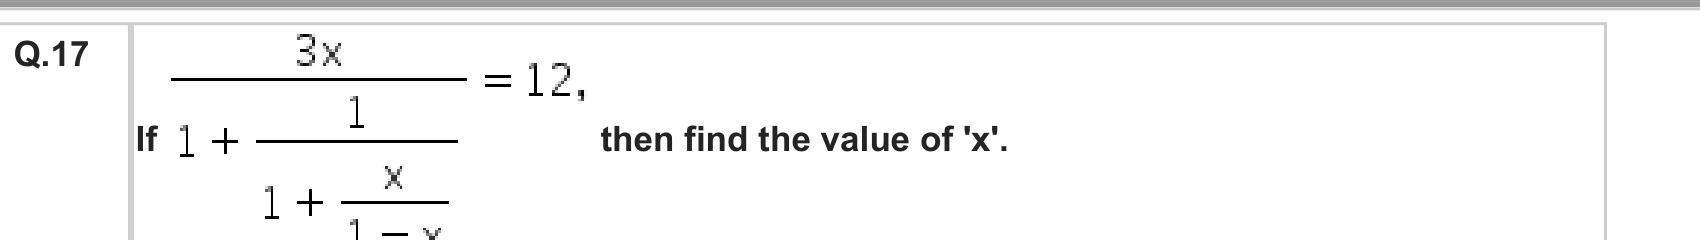
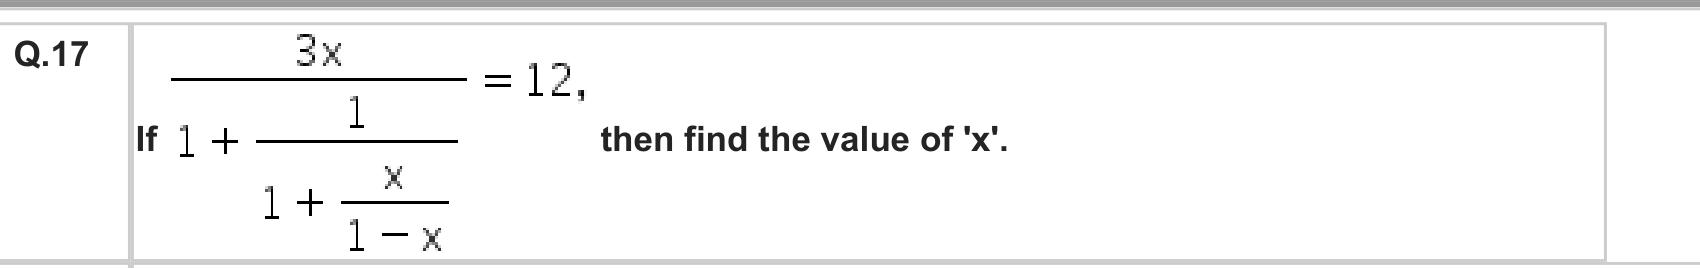
Extend Q.17 crop to capture cut-off bottom equation text

diff --git a/create_full_length_4.py b/create_full_length_4.py
@@ -48,7 +48,7 @@ os.makedirs('uploads', exist_ok=True)
 table_images = {}
 rects = {
     2: (0, fitz.Rect(25, 445, 560, 508)),
-    17: (3, fitz.Rect(25, 615, 450, 675))
+    17: (3, fitz.Rect(25, 615, 450, 682))
 }
 mat = fitz.Matrix(4, 4)
 for q_num, (p_idx, rect) in rects.items():
